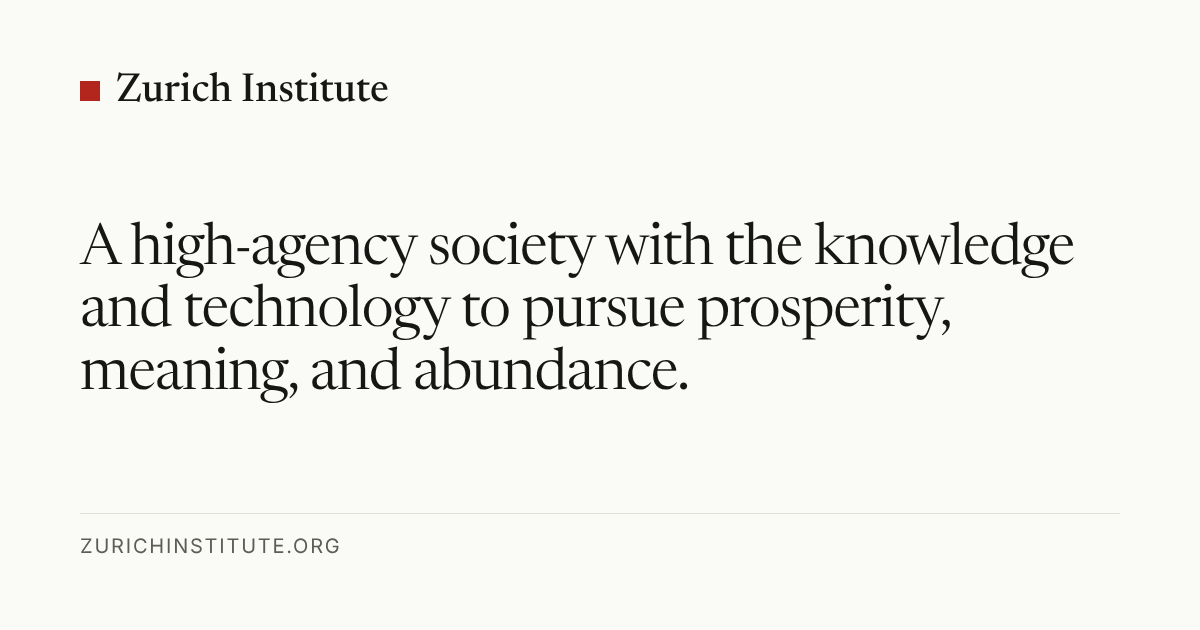
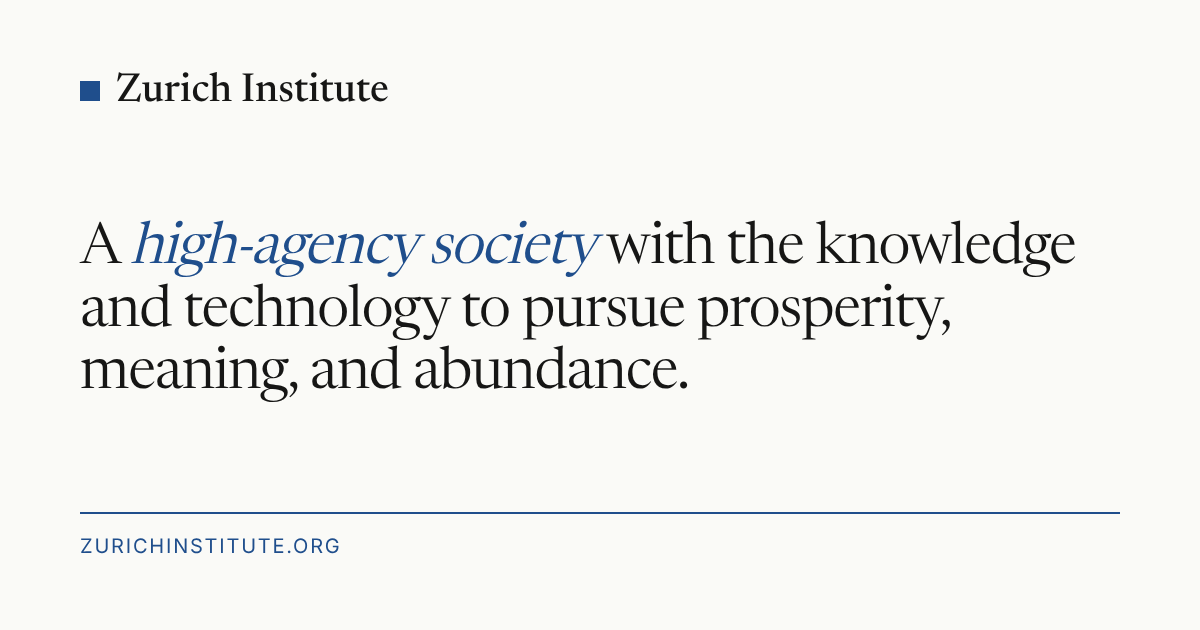
Add Zurich blue accent, LOC images, concern and contribution
Replace the near-monochrome palette with a Zurich blue accent used for
labels, numerals, links, a tinted mission band and a blue footer, in
light and dark themes. Add two public-domain Library of Congress images:
an 1890s photochrom of Zurich's Bahnhofplatz and Polytechnikum on the
home page, and Sarony's 1882 Oscar Wilde No. 18 (the photograph in
Burrow-Giles v. Sarony) in the essay. State the institute's concerns
and contribution on the home and about pages. Add LinkedIn links for
Matthias Brenner and list LinkedIn first in every bio.

Claude-Session: https://claude.ai/code/session_0149pktAdV8HHcgRCDVMPJRs

diff --git a/zurich-institute/site/src/styles/global.css b/zurich-institute/site/src/styles/global.css
@@ -1,5 +1,5 @@
 /* Zurich Institute: design tokens and base styles.
-   Swiss grid, book typography, one accent used sparingly. */
+   Swiss grid, book typography, Zurich blue as the accent. */
 
 :root {
   --paper: #fafaf7;
@@ -7,8 +7,13 @@
   --ink-2: #5d5c57;
   --rule: #e2e0d8;
   --tile: #efede6;
-  --accent: #b3261e;
-  --accent-ink: #fafaf7;
+  /* Zurich blue: the canton's colour, used for labels, numerals, links and bands */
+  --accent: #1f4e8c;
+  --accent-ink: #ffffff;
+  --accent-soft: #e9eff7;
+  --band: #1f4e8c;
+  --band-ink: #f2f5fa;
+  --band-ink-2: #b9c9e0;
 
   --serif: 'Newsreader Variable', 'Iowan Old Style', Georgia, serif;
   --sans: 'Inter Variable', system-ui, -apple-system, 'Segoe UI', sans-serif;
@@ -28,8 +33,12 @@
     --ink-2: #a19f98;
     --rule: #2c2b28;
     --tile: #1d1c1a;
-    --accent: #e3735e;
-    --accent-ink: #121211;
+    --accent: #8db4ea;
+    --accent-ink: #0d1626;
+    --accent-soft: #172131;
+    --band: #15243a;
+    --band-ink: #e3eaf5;
+    --band-ink-2: #9fb3d1;
     color-scheme: dark;
   }
 }
@@ -40,8 +49,12 @@
   --ink-2: #a19f98;
   --rule: #2c2b28;
   --tile: #1d1c1a;
-  --accent: #e3735e;
-  --accent-ink: #121211;
+  --accent: #8db4ea;
+  --accent-ink: #0d1626;
+  --accent-soft: #172131;
+  --band: #15243a;
+  --band-ink: #e3eaf5;
+  --band-ink-2: #9fb3d1;
   color-scheme: dark;
 }
 
@@ -80,11 +93,12 @@ a {
   text-decoration-line: underline;
   text-decoration-thickness: 1px;
   text-underline-offset: 0.18em;
-  text-decoration-color: var(--rule);
+  text-decoration-color: color-mix(in srgb, var(--accent) 35%, transparent);
   transition: text-decoration-color 120ms ease, color 120ms ease;
 }
 
 a:hover {
+  color: var(--accent);
   text-decoration-color: var(--accent);
 }
 
@@ -143,7 +157,7 @@ p {
   font-weight: 500;
   letter-spacing: 0.09em;
   text-transform: uppercase;
-  color: var(--ink-2);
+  color: var(--accent);
 }
 
 .meta {
@@ -200,4 +214,37 @@ p {
   * {
     transition: none !important;
   }
+}
+
+/* A full-width tinted band; put a .wrap inside */
+.band-soft {
+  background: var(--accent-soft);
+}
+
+.band-soft .row {
+  border-top: 0;
+}
+
+.accent {
+  color: var(--accent);
+}
+
+figure {
+  margin: 0;
+}
+
+figure picture,
+figure img {
+  display: block;
+  width: 100%;
+  height: auto;
+}
+
+figcaption {
+  font-family: var(--sans);
+  font-size: 0.8125rem;
+  line-height: 1.5;
+  color: var(--ink-2);
+  margin-top: 0.75rem;
+  max-width: var(--measure);
 }

diff --git a/zurich-institute/site/src/data/institute.ts b/zurich-institute/site/src/data/institute.ts
@@ -11,6 +11,36 @@ export const vision =
 export const mission =
   'The Zurich Institute researches, designs, and advocates for technologies and institutions that restore agency and capability at the community scale.';
 
+export const concerns = [
+  {
+    title: 'Choice by default',
+    text: 'As AI makes production cheap, everyday decisions move into systems people cannot inspect or take back. Agency fades from disuse, not force.',
+  },
+  {
+    title: 'Leverage pooling at the top',
+    text: 'AI could let a ten-person firm or a town do what once took a corporation. By default, the gains go to a few platforms instead.',
+  },
+  {
+    title: 'Institutions built for the old scarcity',
+    text: 'Generating text is now cheap and judging it is not: about half of new web articles are AI-written. Universities and intellectual property law still reward volume and credentials.',
+  },
+];
+
+export const contributions = [
+  {
+    title: 'Evidence from physical industries',
+    text: 'We work in construction, heritage, diagnostics, spacecraft, and AI products. We test claims about agency where software meets the physical world.',
+  },
+  {
+    title: 'Instruments, not only arguments',
+    text: 'Proposals written so someone can adopt them, starting with rules for delegating decisions to AI agents: bounded, revocable, never a condition of access.',
+  },
+  {
+    title: 'Ourselves as the pilot',
+    text: 'Six people with day jobs, using AI to produce institute-grade work and publishing every version. If it works for us, it is a model for small expert groups elsewhere.',
+  },
+];
+
 export const why = [
   'The cost of producing ideas, text, and designs is falling toward zero. The cost of knowing which of them matter, and of acting on them, is not. That gap is where agency lives, and it is where our institutions are weakest.',
   'Universities reward volume over risk. Global firms try to solve local problems they do not understand. Software increasingly makes our choices by default, and makes them hard to take back. None of this requires bad intent; it only requires that nobody design against it.',

diff --git a/zurich-institute/site/src/content/essays/when-scarcity-inverts/v4.md b/zurich-institute/site/src/content/essays/when-scarcity-inverts/v4.md
@@ -127,6 +127,14 @@ There is an episode from the nineteenth century that turns out to be the most im
 
 The Cour de cassation resolved it on 28 November 1862 in a dispute over an unauthorized reproduction of Mayer and Pierson's portrait of Count Cavour, refusing to exclude photography categorically from the 1793 copyright act but granting protection only where the work carried "the imprint of the photographer's personality" through choices of framing, lighting, and perspective [8], and the United States Supreme Court arrived at the same place in 1884 in *Burrow-Giles v. Sarony* over a portrait of Oscar Wilde, locating authorship in the photographer's intellectual conception and arrangement rather than in the operation of the shutter [9]. Both courts, confronted with a machine that did the mechanical work, relocated the protectable human contribution away from the making and toward the choosing.
 
+<figure class="essay-figure">
+  <picture>
+    <source type="image/webp" srcset="/images/wilde-sarony-1882-400.webp 400w, /images/wilde-sarony-1882-610.webp 610w" sizes="(min-width: 40rem) 20rem, 100vw" />
+    <img src="/images/wilde-sarony-1882-610.jpg" srcset="/images/wilde-sarony-1882-400.jpg 400w, /images/wilde-sarony-1882-610.jpg 610w" sizes="(min-width: 40rem) 20rem, 100vw" width="610" height="1024" loading="lazy" decoding="async" alt="Sepia cabinet-card portrait of Oscar Wilde seated on a fur-draped divan, holding a book, chin resting on his hand." />
+  </picture>
+  <figcaption>Napoleon Sarony, <em>Oscar Wilde, No. 18</em>, New York, 1882: the copyright deposit print of the photograph at issue in <em>Burrow-Giles v. Sarony</em>. <a href="https://www.loc.gov/pictures/item/98519710/">Library of Congress</a>, no known restrictions.</figcaption>
+</figure>
+
 This discourse is not merely the first reverberation of the loud echoing conversation we are having today about rights to the output of AI trained on data owned by someone else, it is the same conversation, and the courts are reaching for the same instrument, since in *Thaler v. Perlmutter* the D.C. Circuit held in March 2025 that human authorship is a statutory requirement of American copyright and the Supreme Court declined to review it in 2026 [12], meaning work generated without a human in the loop falls outside the property system entirely. That is usually reported as the law failing to keep up, but it reads the other way, as the law doing precisely what it did in 1862 and 1884 by asking where the human choice was and protecting that, with the only real change being one of proportion: in 1862 the machine did the mechanical work and the human did everything else, whereas today the machine does the mechanical work, the ideation, the drafting, the revision, and increasingly the evaluation, so that the human contribution has narrowed nearly to a point. That point is worth naming, because it is the last thing standing and it is the same thing Kant identified, which is the mandate, the act of choosing and directing.
 
 ## The Inversion of Scarcity

diff --git a/zurich-institute/site/README.md b/zurich-institute/site/README.md
@@ -55,3 +55,10 @@ The domain is registered on Cloudflare, so Pages is the simplest host.
 4. Set the production branch to the branch you want live (usually `main`). Every other branch gets its own preview URL.
 
 `public/_headers` sets security headers and long cache lifetimes for hashed assets; Cloudflare Pages applies it automatically.
+
+## Image credits
+
+Both images are from the Library of Congress Prints and Photographs Division, marked "No known restrictions on publication":
+
+- `public/images/zurich-1890s-*`: *Zürich. Bahnhofplatz & Polytechnikum*, photochrom, between 1890 and 1900 ([LC-DIG-ppmsca-52873](https://www.loc.gov/pictures/item/93506994/)).
+- `public/images/wilde-sarony-1882-*`: Napoleon Sarony, *Oscar Wilde*, No. 18, 1882 ([LC-DIG-ppmsca-13274](https://www.loc.gov/pictures/item/98519710/)).
